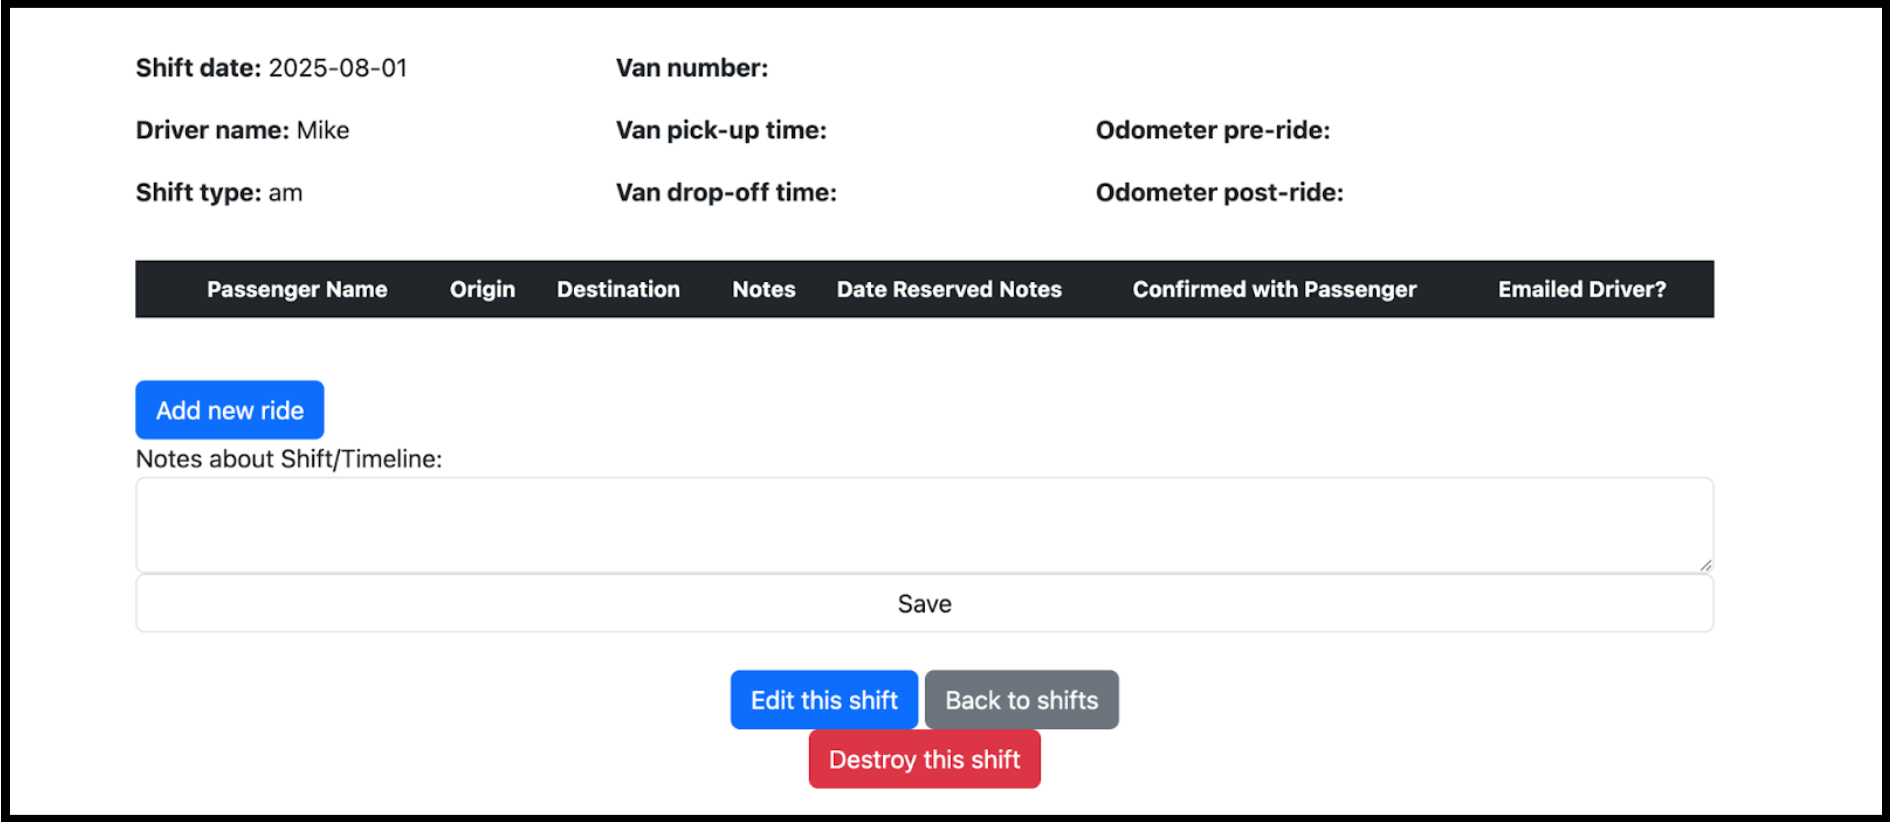
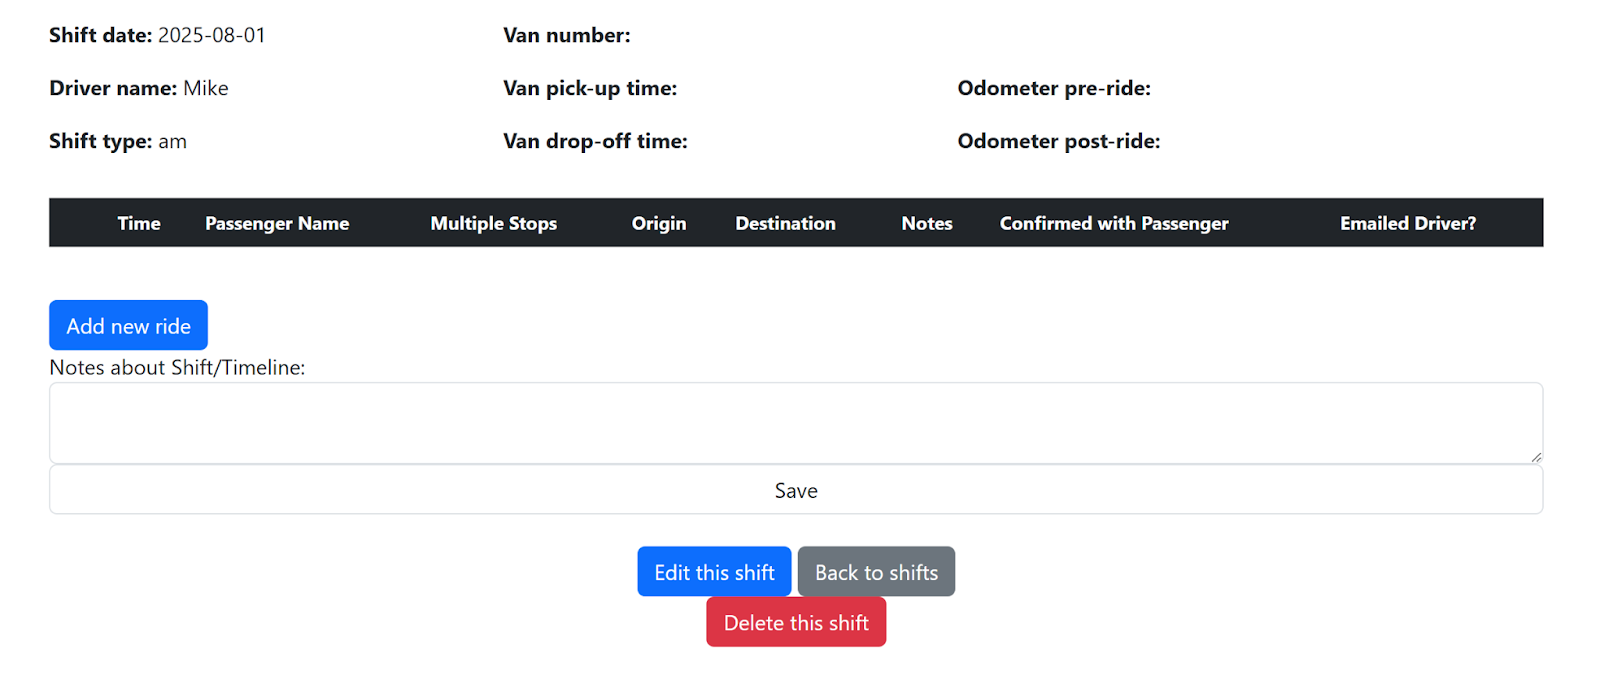
finished updating ss and videos

diff --git a/just_the_docs/docs/For Dispatchers/3.Managing Shifts/Managing Shifts.md b/just_the_docs/docs/For Dispatchers/3.Managing Shifts/Managing Shifts.md
@@ -61,7 +61,8 @@ To modify an existing shift, delete it, or leave a note for the driver associate
 
 Click on the specific shift entry on the calendar (e.g., an "AM" shift). This will open the management options for that shift.
 
-<img src="3.Managing Shifts/Manage Shifts_7.png" alt="Manage Shifts_7.png" width="100%" />
+<img src="3.Managing Shifts/Manage Shifts_7.png" alt="Manage Shifts_7.png" width="100%" 
+style="border: 4px solid black;" />
 
 **Available Actions**
 
@@ -82,7 +83,8 @@ You can provide important details or instructions for the driver regarding this 
 
 This editor supports line breaks (press Enter for a new line). You can also adjust the editor's height by dragging the resize handle (often shown as diagonal lines) located in its bottom-right corner.
 
-<img src="3.Managing Shifts/Manage Shifts_8.png" alt="Manage Shifts_8.png" width="100%" />
+<img src="3.Managing Shifts/Manage Shifts_8.png" alt="Manage Shifts_8.png" width="100%" 
+style="border: 4px solid black;" />
 
 After entering your note, click "Save."
 The assigned driver will then be able to see the details you've provided when they view their schedule for that corresponding date.

diff --git a/just_the_docs/docs/For Dispatchers/2.Passengers & Rides Tables/Passengers & Rides Tables.md b/just_the_docs/docs/For Dispatchers/2.Passengers & Rides Tables/Passengers & Rides Tables.md
@@ -7,11 +7,12 @@ nav_order: 2
 ---
 
 ## Passengers & Rides Tables
-<a href="https://youtu.be/45GQ4vh_1LE" target="_blank">Video Walkthrough Link</a>
-
 <div>
-Video Walkthrough is currently not working.
+This video walkthrough couldn't be uploaded to YouTube, so we uploaded it to Google Drive for you to view:
 </div>
+<a href="https://drive.google.com/file/d/1YucUxpbFO1wvthJHe4povio4fabKcM9d/view?usp=drive_link" target="_blank">Video Walkthrough Link</a>
+
+
 ---
 
 Both the passenger and rides tabs are managed through datatables, which resembles an Excel table. The passengers table includes all the passengers in the system and is required for creating a ride, while the rides table includes all the previous ride’s data. Each row displays the fields for a particular passenger or ride as well as the two action buttons (Edit or Delete). 

diff --git a/just_the_docs/docs/For Dispatchers/4.Scheduling Rides/Scheduling Rides.md b/just_the_docs/docs/For Dispatchers/4.Scheduling Rides/Scheduling Rides.md
@@ -45,7 +45,8 @@ This is where we expect most rides will be created from
 
 2. This will take you to the shift view page. Here, you can see the current rides for the shift, add new rides, and edit the text field with the timeline and notes that the driver will be able to see.
 
-    <img src="4.Scheduling Rides/Scheduling Rides_3.png" alt="Scheduling Rides_3.png" width="100%" />
+    <img src="4.Scheduling Rides/Scheduling Rides_3.png" alt="Scheduling Rides_3.png" width="100%" 
+    style="border: 4px solid black;" />
 
 **Some things to note about this page**
 
